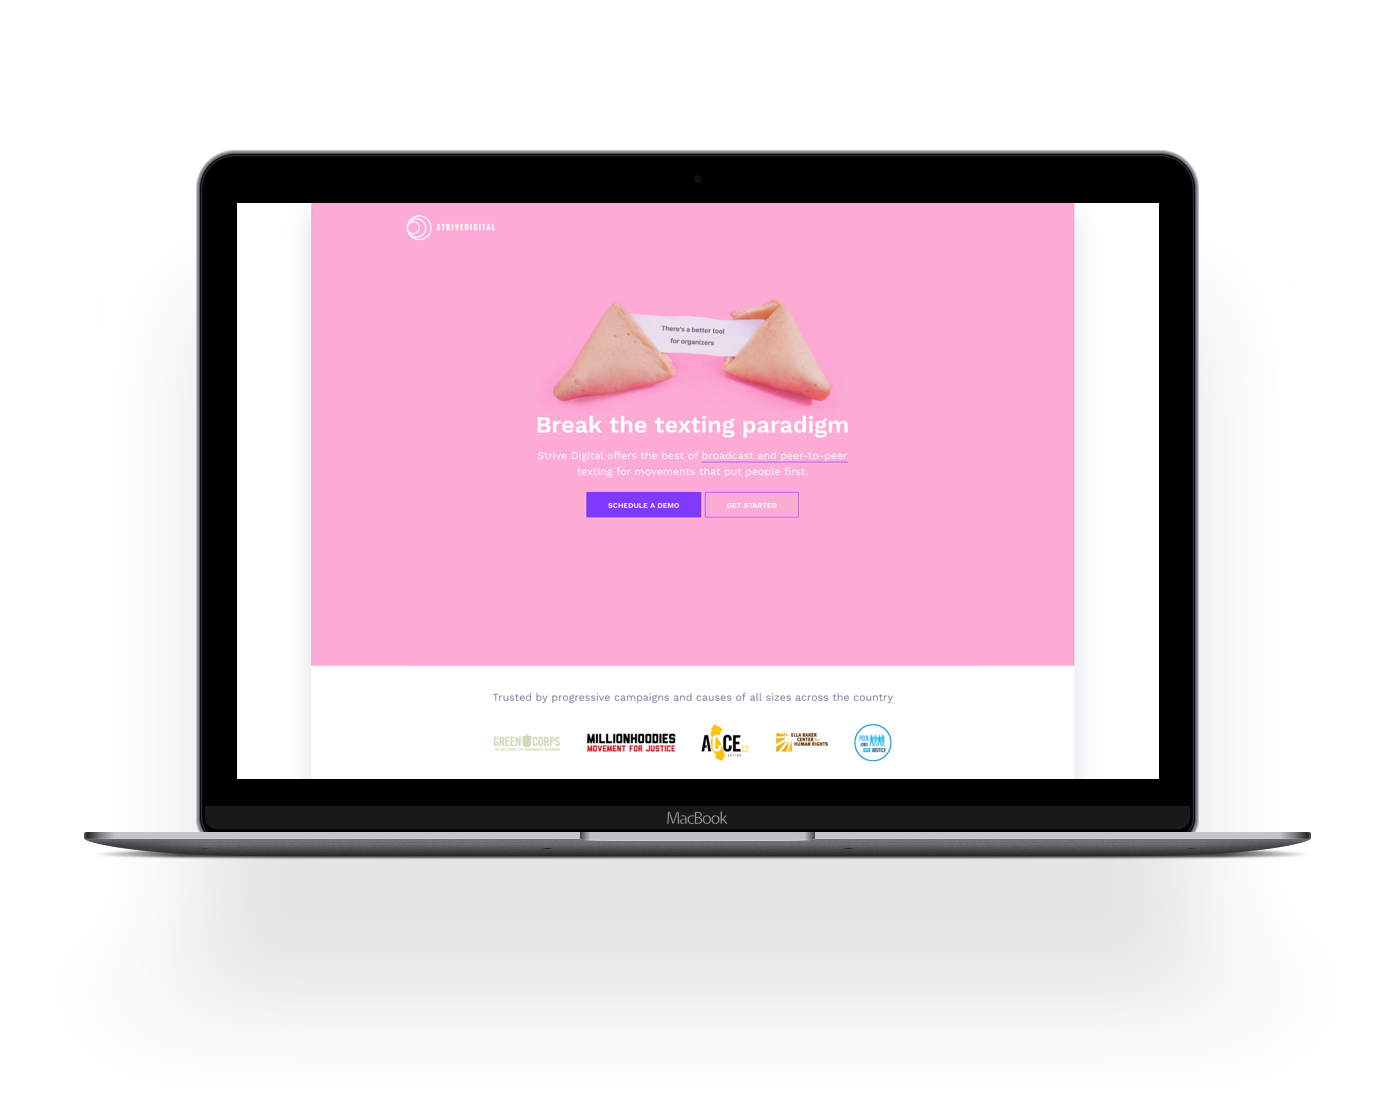
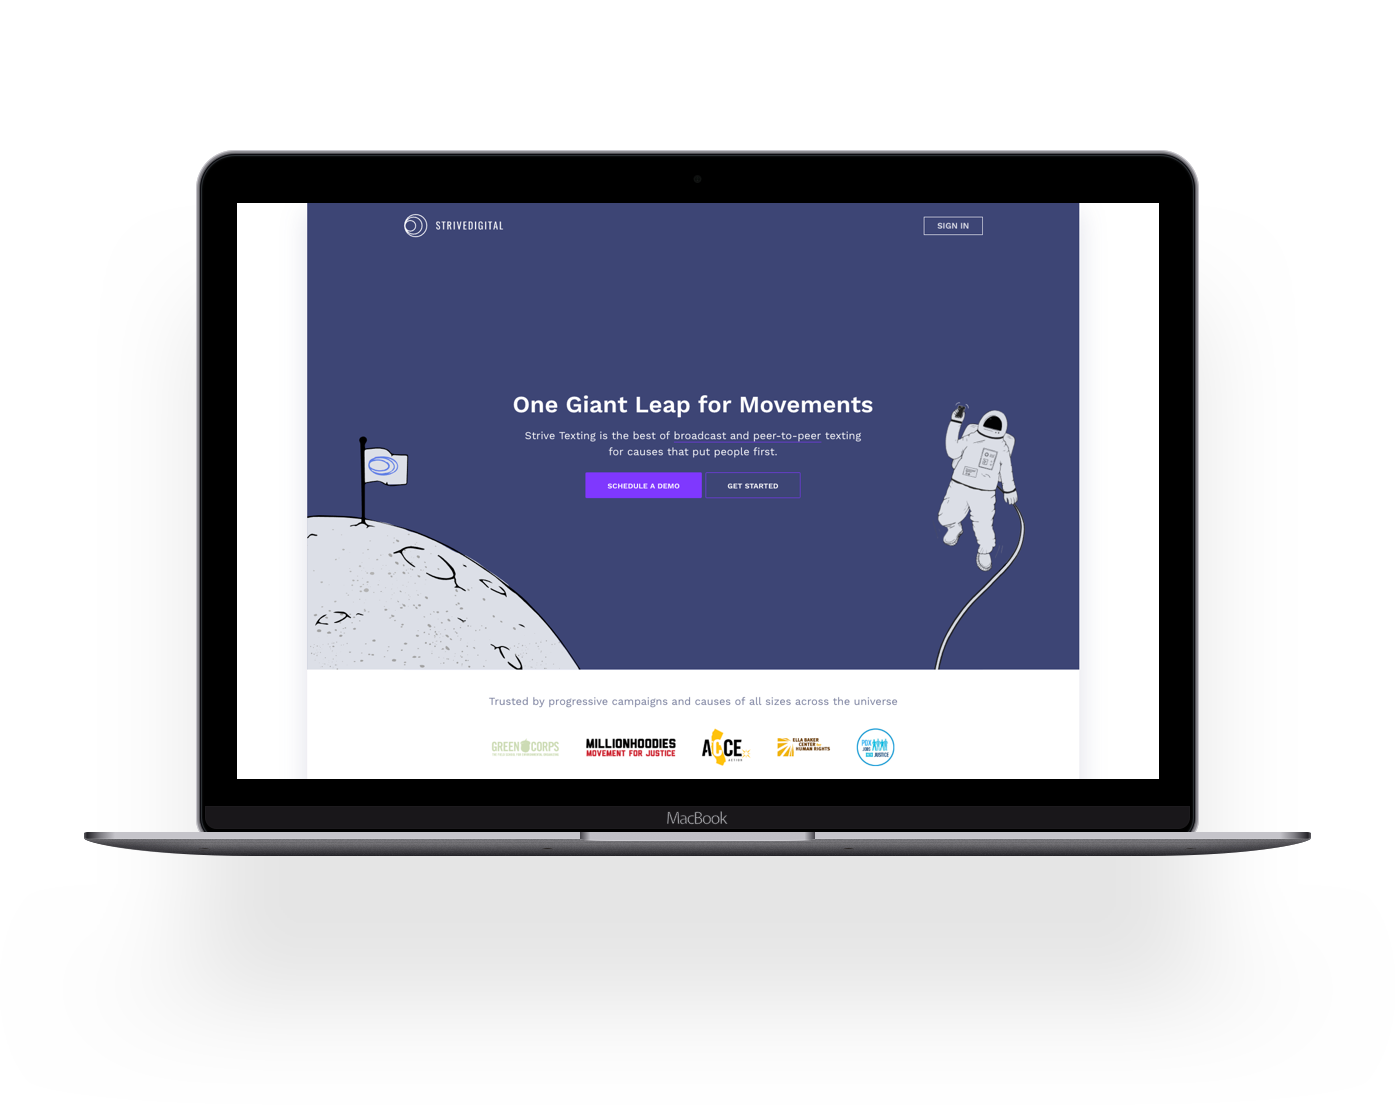
new strive hero

diff --git a/build/index.html b/build/index.html
@@ -1,1 +1,1 @@
-<!doctype html><html lang="en"><head><meta charset="utf-8"><link rel="shortcut icon" href="/favicon.ico"><meta name="viewport" content="width=device-width,initial-scale=1,shrink-to-fit=no"><meta name="theme-color" content="#000000"><link rel="manifest" href="/manifest.json"><link href="https://fonts.googleapis.com/css?family=Karla" rel="stylesheet"><title>Little Universe</title><link href="/static/css/main.04fdd9c4.chunk.css" rel="stylesheet"></head><body><noscript>You need to enable JavaScript to run this app.</noscript><div id="root"></div><script>!function(l){function e(e){for(var r,t,n=e[0],o=e[1],u=e[2],f=0,i=[];f<n.length;f++)t=n[f],p[t]&&i.push(p[t][0]),p[t]=0;for(r in o)Object.prototype.hasOwnProperty.call(o,r)&&(l[r]=o[r]);for(s&&s(e);i.length;)i.shift()();return c.push.apply(c,u||[]),a()}function a(){for(var e,r=0;r<c.length;r++){for(var t=c[r],n=!0,o=1;o<t.length;o++){var u=t[o];0!==p[u]&&(n=!1)}n&&(c.splice(r--,1),e=f(f.s=t[0]))}return e}var t={},p={2:0},c=[];function f(e){if(t[e])return t[e].exports;var r=t[e]={i:e,l:!1,exports:{}};return l[e].call(r.exports,r,r.exports,f),r.l=!0,r.exports}f.m=l,f.c=t,f.d=function(e,r,t){f.o(e,r)||Object.defineProperty(e,r,{enumerable:!0,get:t})},f.r=function(e){"undefined"!=typeof Symbol&&Symbol.toStringTag&&Object.defineProperty(e,Symbol.toStringTag,{value:"Module"}),Object.defineProperty(e,"__esModule",{value:!0})},f.t=function(r,e){if(1&e&&(r=f(r)),8&e)return r;if(4&e&&"object"==typeof r&&r&&r.__esModule)return r;var t=Object.create(null);if(f.r(t),Object.defineProperty(t,"default",{enumerable:!0,value:r}),2&e&&"string"!=typeof r)for(var n in r)f.d(t,n,function(e){return r[e]}.bind(null,n));return t},f.n=function(e){var r=e&&e.__esModule?function(){return e.default}:function(){return e};return f.d(r,"a",r),r},f.o=function(e,r){return Object.prototype.hasOwnProperty.call(e,r)},f.p="/";var r=window.webpackJsonp=window.webpackJsonp||[],n=r.push.bind(r);r.push=e,r=r.slice();for(var o=0;o<r.length;o++)e(r[o]);var s=n;a()}([])</script><script src="/static/js/1.d9bf8a41.chunk.js"></script><script src="/static/js/main.80a30dd5.chunk.js"></script></body></html>
+<!doctype html><html lang="en"><head><meta charset="utf-8"><link rel="shortcut icon" href="/favicon.ico"><meta name="viewport" content="width=device-width,initial-scale=1,shrink-to-fit=no"><meta name="theme-color" content="#000000"><link rel="manifest" href="/manifest.json"><link href="https://fonts.googleapis.com/css?family=Karla" rel="stylesheet"><title>Little Universe</title><link href="/static/css/main.77c207d7.chunk.css" rel="stylesheet"></head><body><noscript>You need to enable JavaScript to run this app.</noscript><div id="root"></div><script>!function(l){function e(e){for(var r,t,n=e[0],o=e[1],u=e[2],f=0,i=[];f<n.length;f++)t=n[f],p[t]&&i.push(p[t][0]),p[t]=0;for(r in o)Object.prototype.hasOwnProperty.call(o,r)&&(l[r]=o[r]);for(s&&s(e);i.length;)i.shift()();return c.push.apply(c,u||[]),a()}function a(){for(var e,r=0;r<c.length;r++){for(var t=c[r],n=!0,o=1;o<t.length;o++){var u=t[o];0!==p[u]&&(n=!1)}n&&(c.splice(r--,1),e=f(f.s=t[0]))}return e}var t={},p={2:0},c=[];function f(e){if(t[e])return t[e].exports;var r=t[e]={i:e,l:!1,exports:{}};return l[e].call(r.exports,r,r.exports,f),r.l=!0,r.exports}f.m=l,f.c=t,f.d=function(e,r,t){f.o(e,r)||Object.defineProperty(e,r,{enumerable:!0,get:t})},f.r=function(e){"undefined"!=typeof Symbol&&Symbol.toStringTag&&Object.defineProperty(e,Symbol.toStringTag,{value:"Module"}),Object.defineProperty(e,"__esModule",{value:!0})},f.t=function(r,e){if(1&e&&(r=f(r)),8&e)return r;if(4&e&&"object"==typeof r&&r&&r.__esModule)return r;var t=Object.create(null);if(f.r(t),Object.defineProperty(t,"default",{enumerable:!0,value:r}),2&e&&"string"!=typeof r)for(var n in r)f.d(t,n,function(e){return r[e]}.bind(null,n));return t},f.n=function(e){var r=e&&e.__esModule?function(){return e.default}:function(){return e};return f.d(r,"a",r),r},f.o=function(e,r){return Object.prototype.hasOwnProperty.call(e,r)},f.p="/";var r=window.webpackJsonp=window.webpackJsonp||[],n=r.push.bind(r);r.push=e,r=r.slice();for(var o=0;o<r.length;o++)e(r[o]);var s=n;a()}([])</script><script src="/static/js/1.e93c6213.chunk.js"></script><script src="/static/js/main.fe2c0bcc.chunk.js"></script></body></html>

diff --git a/src/components/WorksCarousel/index.js b/src/components/WorksCarousel/index.js
@@ -20,6 +20,11 @@ export default class WorksCarousel extends Component {
         </Reveal>
         <Reveal effect="carousel-label-slideUp">
           <Link to={destination} className="carousel-label-link">
+            <Grid className={`carousel-label label-featured-additional`} container>
+                <Grid item className="label-row" md={12}>
+                  <div className="label-details">Featured Case Study</div>
+                </Grid>
+            </Grid>
             <Grid className={`carousel-label`} container>
                 <Grid item className="label-row" md={12}>
                   <div className="label-details">{projectName} <span>• {projectStatement}</span></div>
@@ -28,15 +33,6 @@ export default class WorksCarousel extends Component {
             </Grid>
           </Link>
           </Reveal>
-          <Reveal effect="carousel-label-slideUp">
-            <Link to={destination} className="carousel-label-link">
-              <Grid className={`carousel-label label-featured-additional`} container>
-                  <Grid item className="label-row" md={12}>
-                    <div className="label-details">Featured Case Study</div>
-                  </Grid>
-              </Grid>
-            </Link>
-            </Reveal>
         </Grid>
       }
       { className && ctaLabel &&

diff --git a/src/styles/styles.scss b/src/styles/styles.scss
@@ -853,7 +853,9 @@ button:focus {
     padding: 0;
     .text-body {
     height: 50% !important;
-    .text-header {}
+    .text-header {
+      line-height: $lineHeightMobile !important;
+    }
     .text-statement {
       font-size: $fontSizeMobile !important;
       line-height: $lineHeightMobile !important;
@@ -1861,6 +1863,7 @@ button {
   &.products-section {
     padding: $buffer*6 0;
     background: $bgColorLightened;
+    position: relative;
     p {
       font-size: $fontSizeDesktop;
       line-height: $lineHeightDesktop;
@@ -1968,6 +1971,7 @@ button {
     @include breakpoint(sm) {
       height: 50vh;
       .image-background {
+        width: 100%; height: 100%;
       }
       .carousel-indicators {
         display: none;
@@ -2005,7 +2009,16 @@ button {
     }
     .carousel-label {
       &.label-featured-additional {
-        background-color: transparent !important;
+        background-color: $yellow !important;
+        padding: $buffer $buffer*3;
+        border-bottom: 0;
+        .label-row {
+          .label-details {
+          color: $darkGreen;
+          font-size: $fontSize;
+          }
+          // justify-content: center;
+        }
       }
       width: 100%;
       z-index: 1;

diff --git a/src/pages/homepage/index.js b/src/pages/homepage/index.js
@@ -65,7 +65,7 @@ class Homepage extends Component {
         <Grid container className="page-section products-section">
           <Grid container className="section-head">
             { /* <Grid item md={6}><p>We identify gaps between the tech you use and the results you need, and build efficient solutions that help you win.</p></Grid> */ }
-            <Grid item md={4}><p>You're fighting the good fight. We want to help.</p></Grid>
+            <Grid item md={4}><p>You're fighting the good fight.<br/>We want to help.</p></Grid>
           </Grid>
           <Grid container className="section-body">
             <Grid item md={4} sm={12}><ProductFeatured className="political-campaigns" productName="Political Campaigns" productDescription="We  work with campaigns up and down the ballot to fill gaps in their technology tool set, seize opportunities to gain advantages in the field, and solve tricky integration problems so they can put their volunteers, donors, and supporters first."/></Grid>

diff --git a/src/styles/mixins.scss b/src/styles/mixins.scss
@@ -106,19 +106,19 @@
 
 @mixin breakpoint($class) {
   @if $class == xs {
-    @media (max-width: 767px) { @content; }
+    @media (max-width: 599px) { @content; }
   }
 
   @else if $class == sm {
-    @media (max-width: 768px) { @content; }
+    @media (max-width: 959px) { @content; } //TEMPORARY FIX 190716 TZ
   }
 
   @else if $class == md {
-    @media (max-width: 992px) { @content; }
+    @media (max-width: 960px) { @content; }
   }
 
   @else if $class == lg {
-    @media (min-width: 1200px) { @content; }
+    @media (min-width: 1280px) { @content; }
   }
 
   @else {

diff --git a/build/service-worker.js b/build/service-worker.js
@@ -14,7 +14,7 @@
 importScripts("https://storage.googleapis.com/workbox-cdn/releases/3.6.3/workbox-sw.js");
 
 importScripts(
-  "/precache-manifest.e6e2b4849fd6ffc3a8168e479a409be2.js"
+  "/precache-manifest.56290ac25d8c89d7d3868e665b89620d.js"
 );
 
 workbox.clientsClaim();
